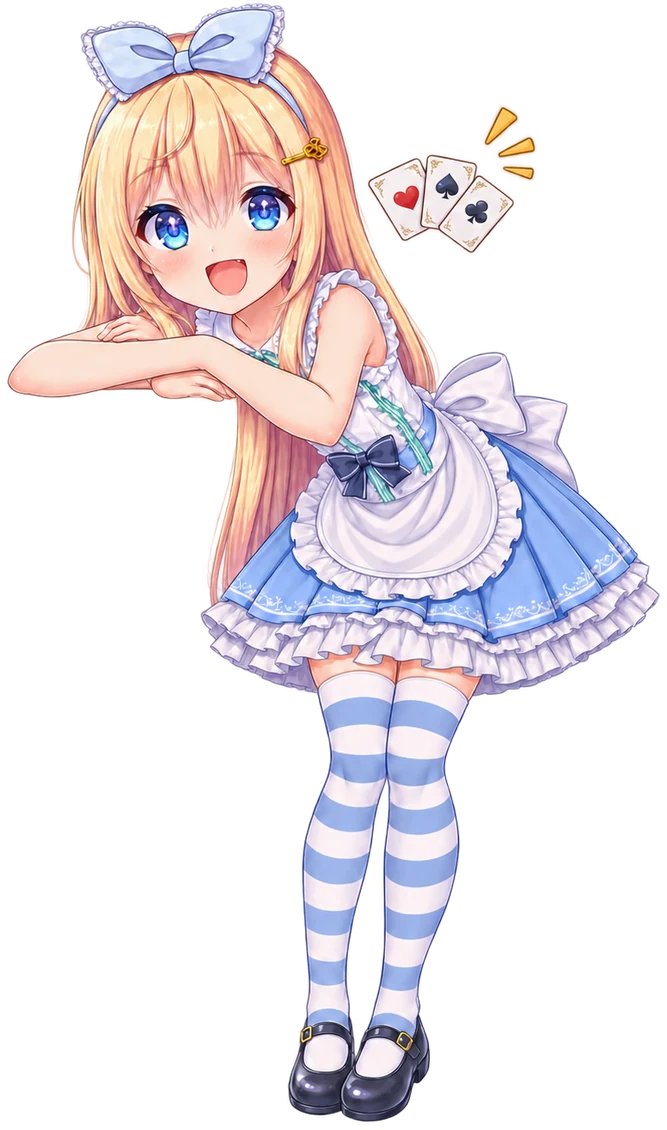
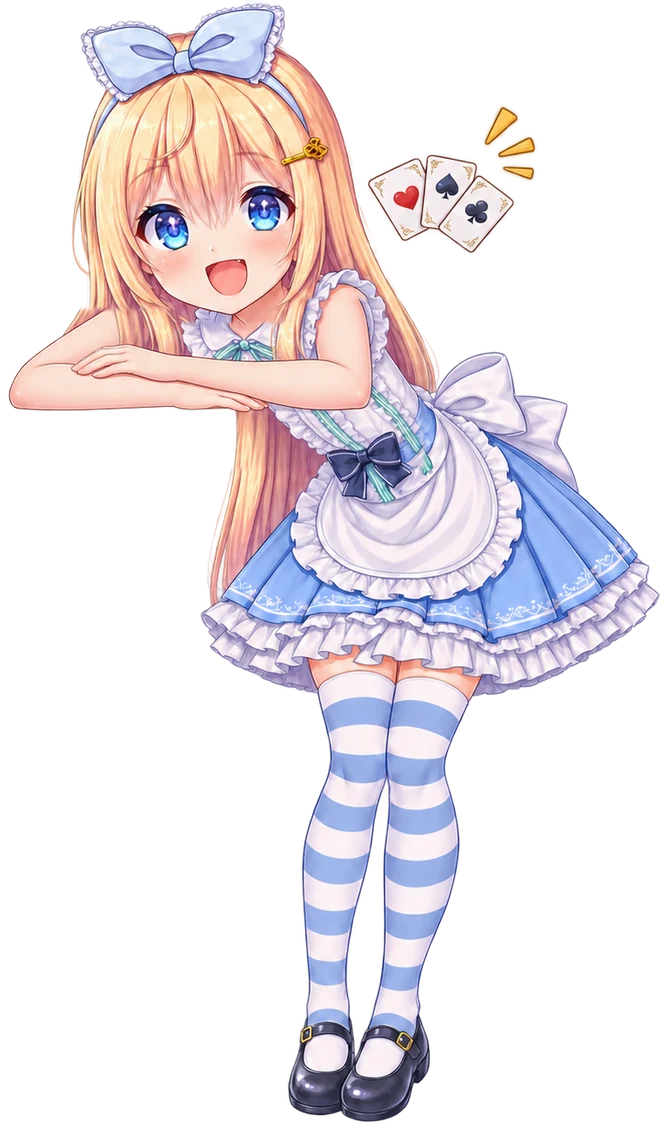
fix(aierlanta.alicetheme): 修正输入框上 Alice 的胳膊 (0.3.2)
原图左臂手肘垂得比另一条低，两条前臂糊成一根，手分不清属于哪条胳膊。
重画为两条前臂交叠平放在同一条水平线上、两个手肘等高、每只手接在各自前臂末端；
只换 composer-peek 的四张状态图（默认、运行中、等待、出错），尺寸和裁切框不变，CSS 和三套主题无改动。

Changed region(s): [[0.0, 0.2478, 0.6597, 0.4336]]

diff --git a/README.md b/README.md
@@ -30,7 +30,7 @@ EnsoCode 官方插件市场的源仓库 · [浏览插件](https://enso-plugins.j
 <!-- plugins:start -->
 | 插件 | id | 版本 | 来源 | 介绍 |
 | --- | --- | --- | --- | --- |
-| 爱丽丝的茶会 | `aierlanta.alicetheme` | 0.3.1 | 社区 | 爱丽丝的茶会主题：蓝白格纹配蕾丝，Alice 趴在输入框上，侧栏、待办和代码块各有茶会小摆件，随会话状态换表情。另有奶油黄配色的「爱丽丝的茶会 · 蜂蜜」，和带花园壁纸的「爱丽丝的茶会 · 花园」（深浅色和运行中、等待、出错各一张）。作者 Alice Aierlanta。 |
+| 爱丽丝的茶会 | `aierlanta.alicetheme` | 0.3.2 | 社区 | 爱丽丝的茶会主题：蓝白格纹配蕾丝，Alice 趴在输入框上，侧栏、待办和代码块各有茶会小摆件，随会话状态换表情。另有奶油黄配色的「爱丽丝的茶会 · 蜂蜜」，和带花园壁纸的「爱丽丝的茶会 · 花园」（深浅色和运行中、等待、出错各一张）。作者 Alice Aierlanta。 |
 | [BCE Prompt Enhance](https://github.com/linqiu919/dsh-bce) | `dsh.bce` | 0.1.5 | 社区 · [`linqiu919/dsh-bce`](https://github.com/linqiu919/dsh-bce) | Better Context Engine 提示词增强：增量索引项目，精准补全代码上下文，让提问更清楚、回答更准确。 |
 | Session Bridge | `enso.bridge` | 1.0.0 | 官方 | 跨会话桥：同项目的多个会话可在侧栏群聊室中互相提问、委托与回传结论。 |
 | Bugbot Review | `enso.bugbot` | 0.1.0 | 官方 | 移植自 Cursor review-bugbot 与 Agent Review：本地 Git diff 组装（自动识别默认基准分支、剔除 linguist-generated 文件、合并 .cursor/BUGBOT.md 规则与最小改动行数门禁）、只读 bugbot 审查子代理、/review-bugbot 技能以及侧栏 Findings 面板与一键 Fix in Chat。 |
